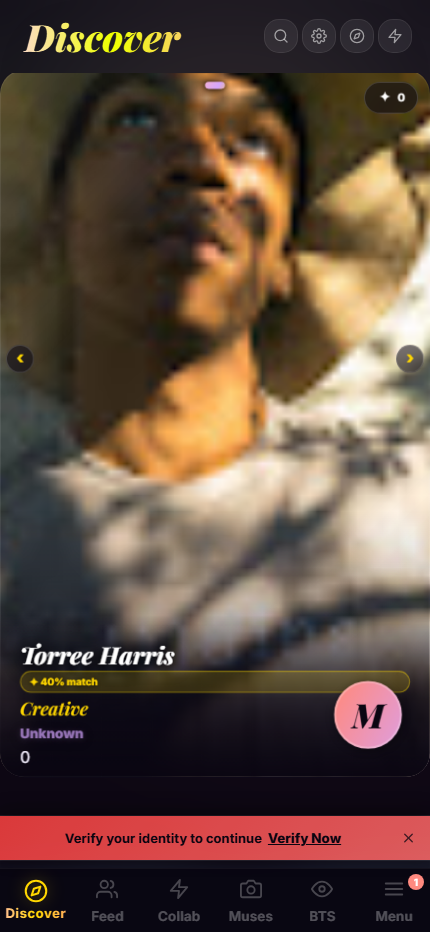
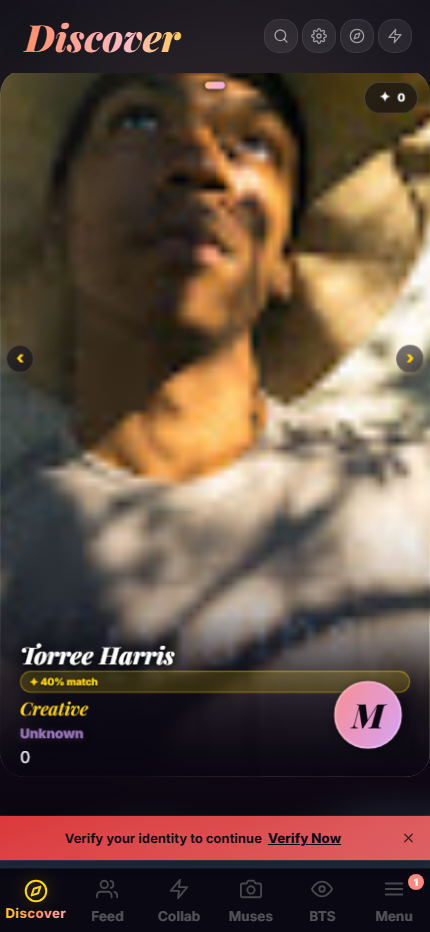
Waves z-index 1 -> 90 (above card, below nav)

diff --git a/src/app/(muse)/muse/muse.css b/src/app/(muse)/muse/muse.css
@@ -2267,7 +2267,7 @@ img{background-color:var(--card-bg)}
    The three layers use mismatched, low-frequency bezier curves so they read as
    real, uneven tides rather than a repeating synthwave pattern.
    ══════════════════════════════════════════════════════════════════════════ */
-.wave-bottom{position:fixed;bottom:0;left:50%;transform:translateX(-50%);width:min(430px,100vw);height:24%;z-index:1;pointer-events:none;overflow:hidden;opacity:0;transition:opacity .5s ease}
+.wave-bottom{position:fixed;bottom:0;left:50%;transform:translateX(-50%);width:min(430px,100vw);height:24%;z-index:90;pointer-events:none;overflow:hidden;opacity:0;transition:opacity .5s ease}
 .wave-bottom.show{opacity:1}
 .wave-bottom svg{position:absolute;bottom:0;left:0;width:240%;height:100%;animation:waveDrift 14s ease-in-out infinite}
 .wave-bottom svg:nth-child(2){animation-duration:20s;animation-delay:-6s;opacity:.7}
